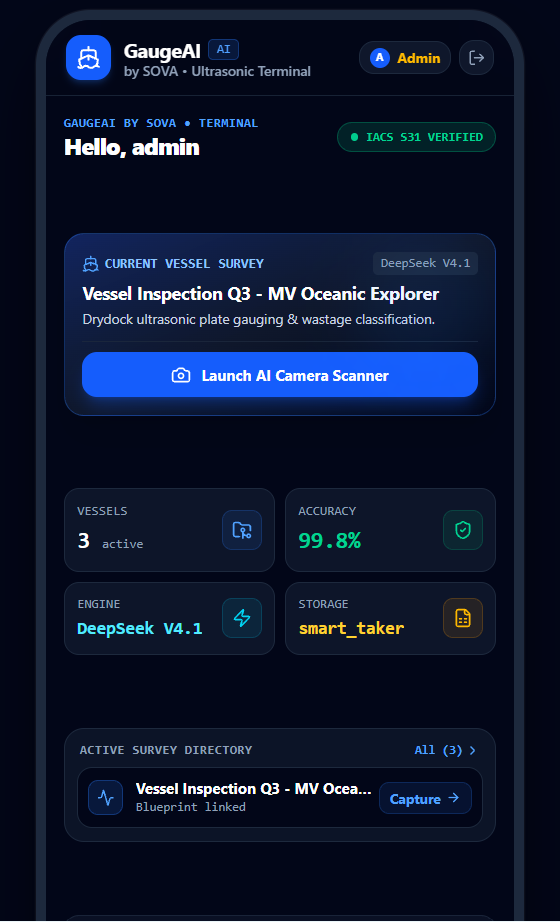
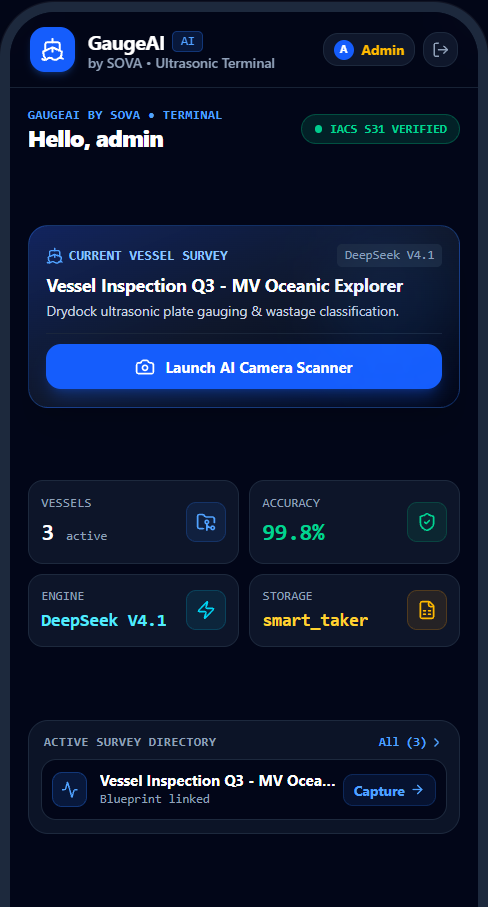
Fix Gauge AI screenshot framing on Products page
The Gauge AI screenshot is itself a mockup with its own native
rounded header card, which clashed with the website card's own
rounded-xl corner clipping. Crops the image to its content bounds,
trims a small background gap above the header, and renders it in a
dedicated, generously-rounded frame sized to clear the screenshot's
own corner radius instead of fighting it.

diff --git a/frontend/src/app/App.tsx b/frontend/src/app/App.tsx
@@ -1175,6 +1175,7 @@ const PRODUCTS: {
   name: string;
   tagline: string;
   screenshot: string;
+  framedScreenshot?: boolean;
   description: string;
   features: { title: string; desc: string }[];
   builtFor: string;
@@ -1211,6 +1212,7 @@ const PRODUCTS: {
     name: "Gauge AI",
     tagline: "From Manual Gauging to AI-Verified Classification",
     screenshot: screenshotGaugeAi,
+    framedScreenshot: true,
     description: "GaugeAI is the ultrasonic terminal for modern drydocking. Every drydock survey depends on one thing: accurate plate thickness. If a plate is wasted beyond limit, it must be renewed — if the reading is wrong, the vessel is either at risk, or the owner pays for steel that didn't need replacing. GaugeAI removes that risk.",
     features: [
       { title: "Launch AI Camera Scanner", desc: "One tap opens AI capture mode. The surveyor points the camera at the ultrasonic gauge display — GaugeAI reads the thickness, validates it, and classifies the wastage instantly. No manual transcription, no typing errors." },
@@ -1263,7 +1265,7 @@ function ProductsPage({ go }: { go: (p: Page) => void }) {
         </div>
       </section>
 
-      {PRODUCTS.map(({ name, tagline, screenshot, description, features, builtFor }, i) => (
+      {PRODUCTS.map(({ name, tagline, screenshot, framedScreenshot, description, features, builtFor }, i) => (
         <section key={name} className={`py-20 md:py-28 px-6 md:px-16 ${i < PRODUCTS.length - 1 ? "border-b border-[var(--border)]" : ""}`}>
           <div className="max-w-7xl mx-auto">
             <div className="flex flex-col lg:flex-row items-start justify-between gap-6 mb-10">
@@ -1285,9 +1287,17 @@ function ProductsPage({ go }: { go: (p: Page) => void }) {
             </div>
 
             <FadeUp delay={100} distance={18}>
-              <div className="w-full rounded-xl overflow-hidden border border-[var(--border)] bg-[var(--bg-card)] mb-10">
-                <img src={screenshot} alt={`${name} app screenshot`} className="w-full h-auto" />
-              </div>
+              {framedScreenshot ? (
+                <div className="w-full flex justify-center mb-10">
+                  <div className="w-full max-w-[380px] overflow-hidden rounded-[52px] bg-[var(--bg-page)]">
+                    <img src={screenshot} alt={`${name} app screenshot`} className="w-full h-auto block" />
+                  </div>
+                </div>
+              ) : (
+                <div className="w-full rounded-xl overflow-hidden border border-[var(--border)] bg-[var(--bg-card)] mb-10">
+                  <img src={screenshot} alt={`${name} app screenshot`} className="w-full h-auto" />
+                </div>
+              )}
             </FadeUp>
 
             <FadeUp delay={150}>
